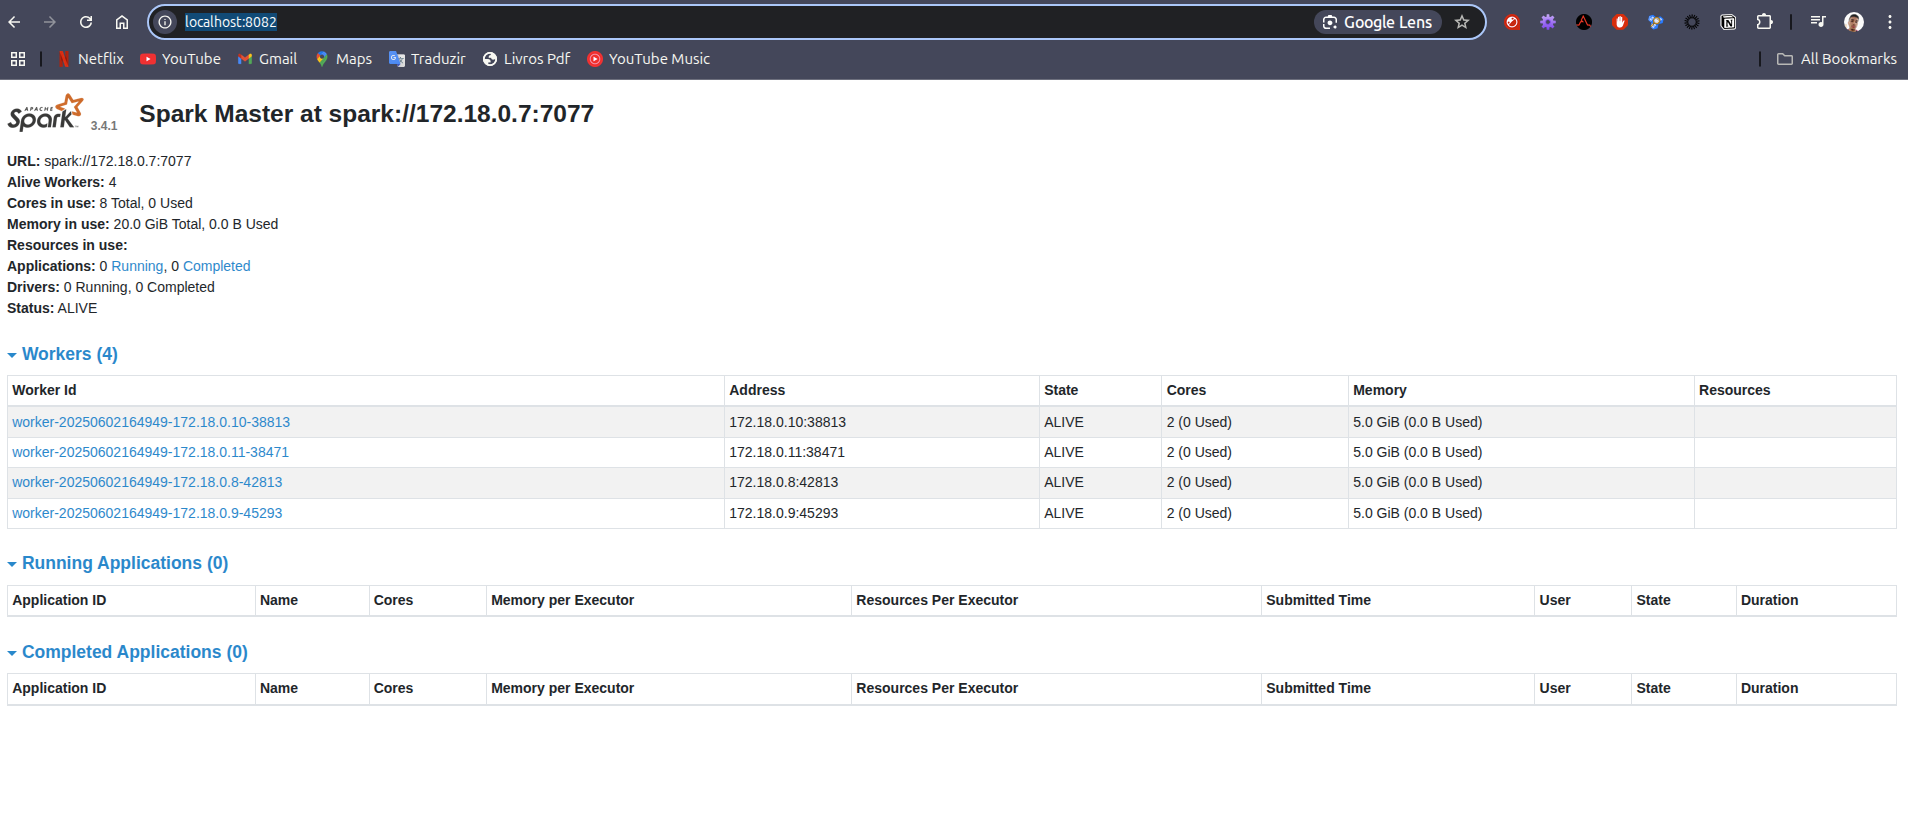
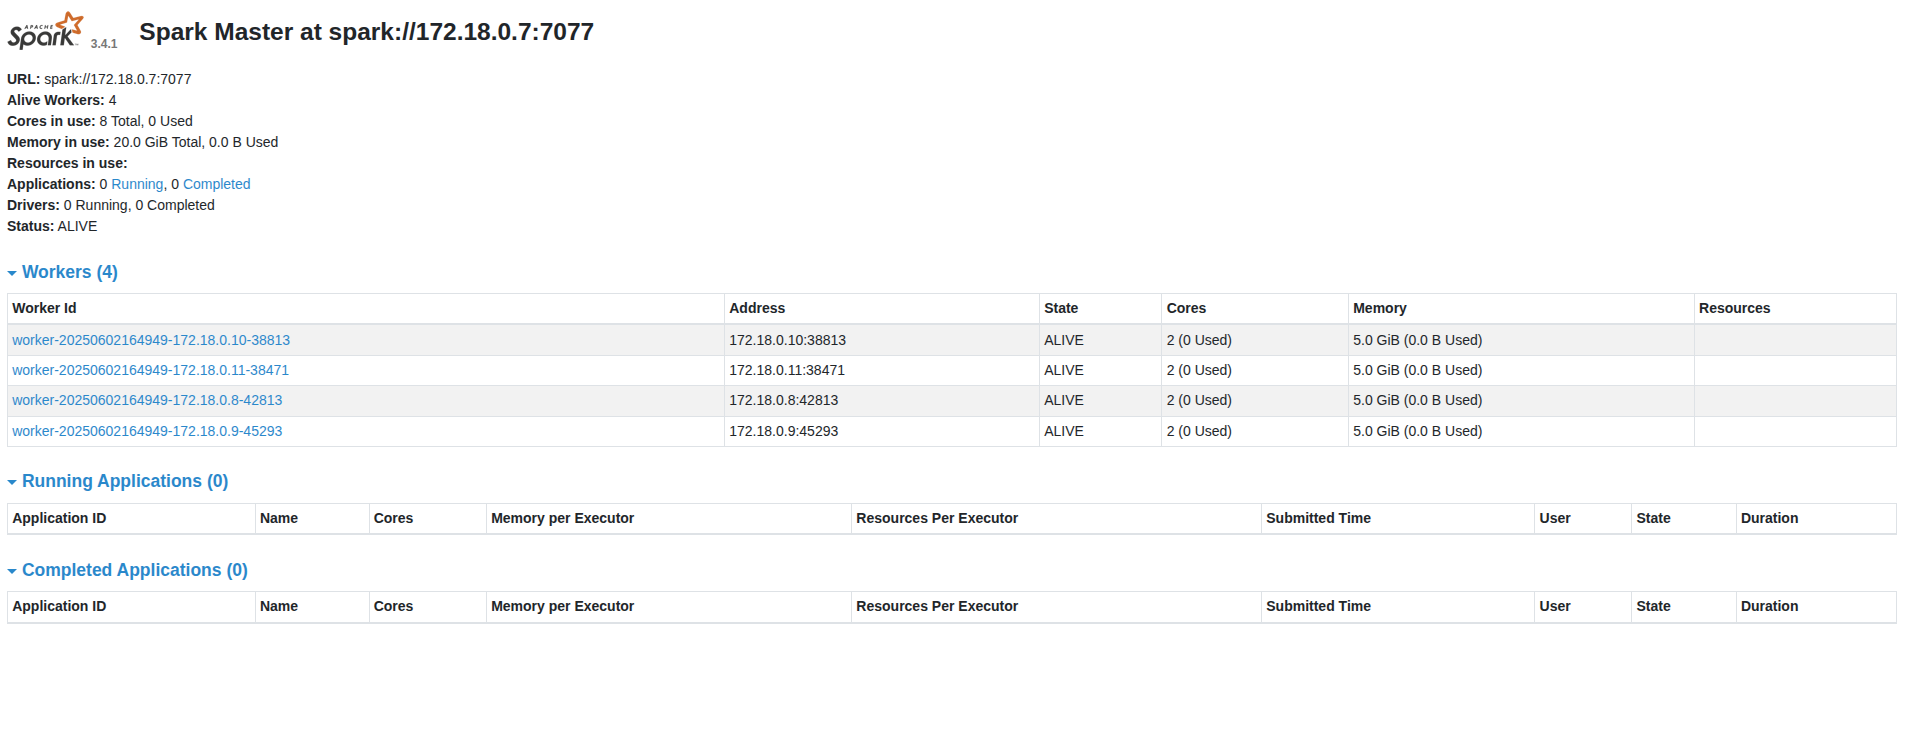
fix: translations error "plataform" to "platform

diff --git a/README.md b/README.md
@@ -70,10 +70,10 @@ You need to copy & paste those files at their respective directories at the data
 
 #### 0. Network
 
-To the data plataform comunicate with each other, it need a network
+To the data platform comunicate with each other, it need a network
 
 ```sh
-make network-create NETWORK=data-plataform
+make network-create NETWORK=data-platform
 ```
 
 #### 1. SFTP – Secure file transfer for ingesting raw data.(optional)
